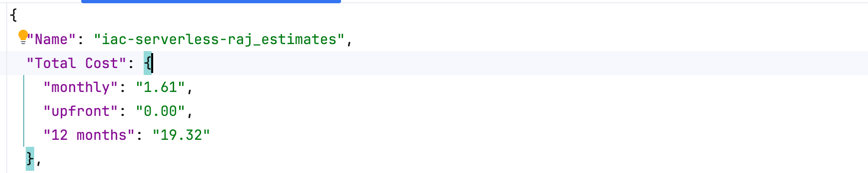
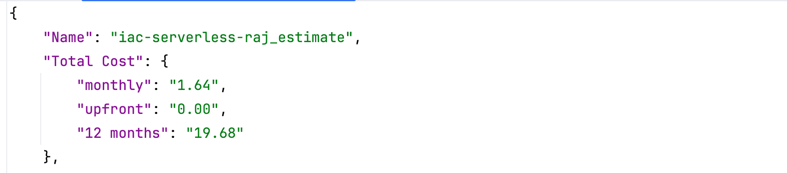
tf backend | Create s3 bucket to store tf states
Include FinOps - Add cost estimates for resources

diff --git a/tf_prerequisites/README-tf.md b/tf_prerequisites/README-tf.md
@@ -21,6 +21,12 @@ No modules.
 | Name | Type |
 |------|------|
 | [aws_dynamodb_table.terraform-lock](https://registry.terraform.io/providers/hashicorp/aws/5.54.1/docs/resources/dynamodb_table) | resource |
+| [aws_s3_bucket.s3_tf_state_bucket](https://registry.terraform.io/providers/hashicorp/aws/5.54.1/docs/resources/s3_bucket) | resource |
+| [aws_s3_bucket_acl.s3_tf_state_bucket_acl](https://registry.terraform.io/providers/hashicorp/aws/5.54.1/docs/resources/s3_bucket_acl) | resource |
+| [aws_s3_bucket_ownership_controls.s3_tf_state_bucket_oc](https://registry.terraform.io/providers/hashicorp/aws/5.54.1/docs/resources/s3_bucket_ownership_controls) | resource |
+| [aws_s3_bucket_public_access_block.s3_tf_state_public_access_block](https://registry.terraform.io/providers/hashicorp/aws/5.54.1/docs/resources/s3_bucket_public_access_block) | resource |
+| [aws_s3_bucket_server_side_encryption_configuration.s3_tf_state_bucket_encryption](https://registry.terraform.io/providers/hashicorp/aws/5.54.1/docs/resources/s3_bucket_server_side_encryption_configuration) | resource |
+| [aws_s3_bucket_versioning.s3_tf_state_bucket_versioning](https://registry.terraform.io/providers/hashicorp/aws/5.54.1/docs/resources/s3_bucket_versioning) | resource |
 
 ## Inputs
 
@@ -34,4 +40,5 @@ No modules.
 | Name | Description |
 |------|-------------|
 | <a name="output_tf_lock_arn"></a> [tf\_lock\_arn](#output\_tf\_lock\_arn) | arn of dynamodb used for terraform lock |
+| <a name="output_tf_state_arn"></a> [tf\_state\_arn](#output\_tf\_state\_arn) | arn of s3 bucket used to store terraform state |
 <!-- END_TF_DOCS -->

diff --git a/README.md b/README.md
@@ -60,6 +60,6 @@
 
 ## FinOps
 
-Refer the [detailed cost estimates](/FinOps/iac-serverless_estimates.json) file for detailed rough cost estimates generated via [Cost calculator](https://calculator.aws/#/)
+Refer the [detailed cost estimates](FinOps/iac-serverless-raj_estimate.json) file for detailed rough cost estimates generated via [Cost calculator](https://calculator.aws/#/)
 
 ![](/FinOps/total_cost.png)
